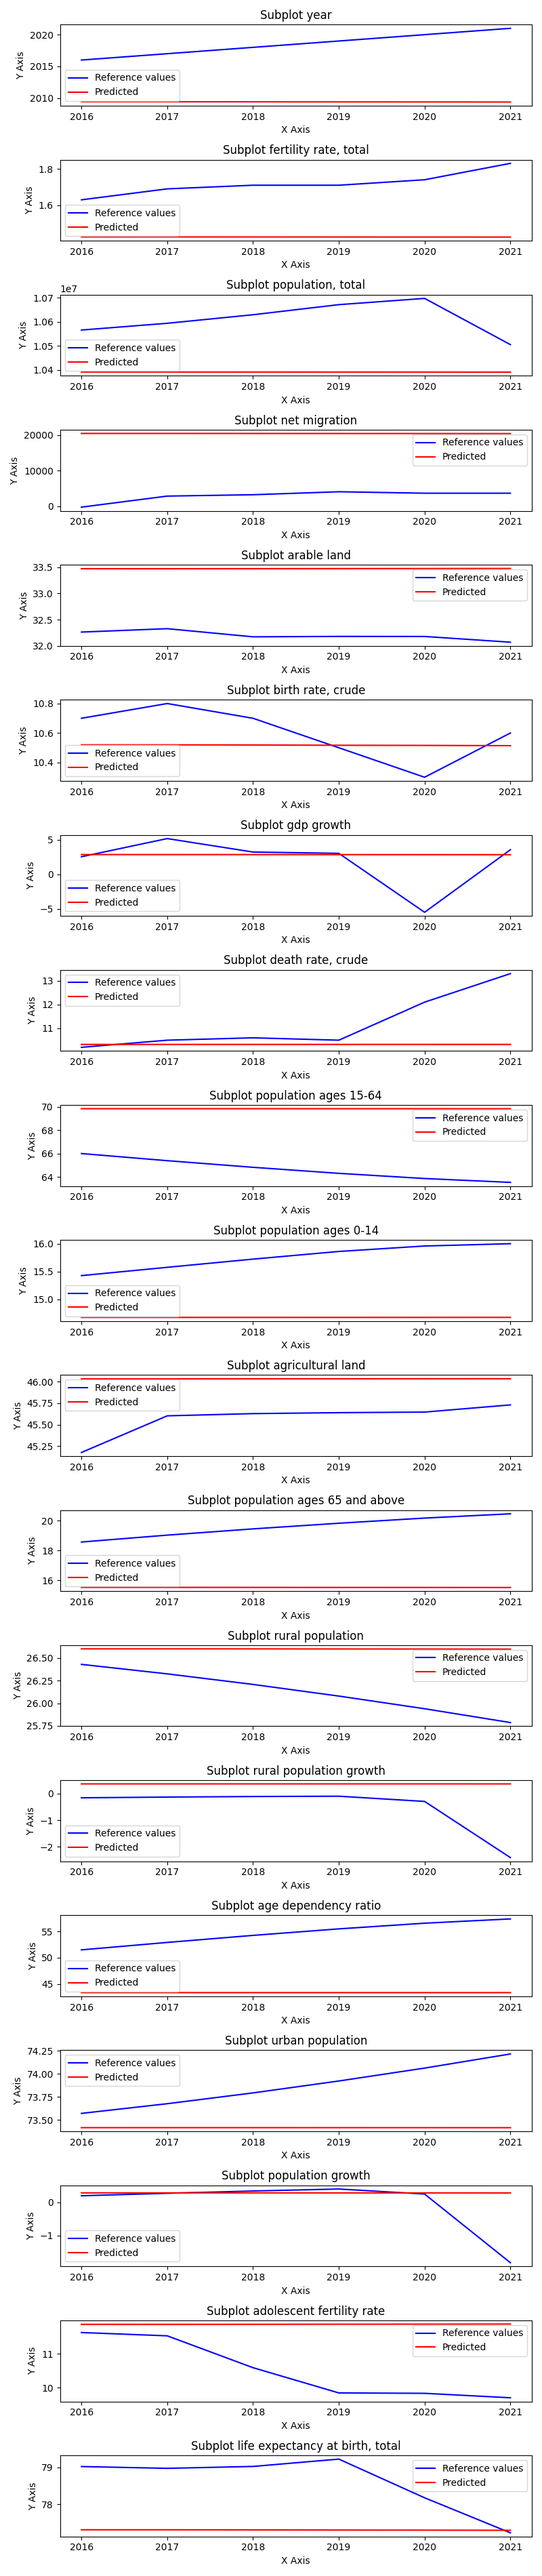
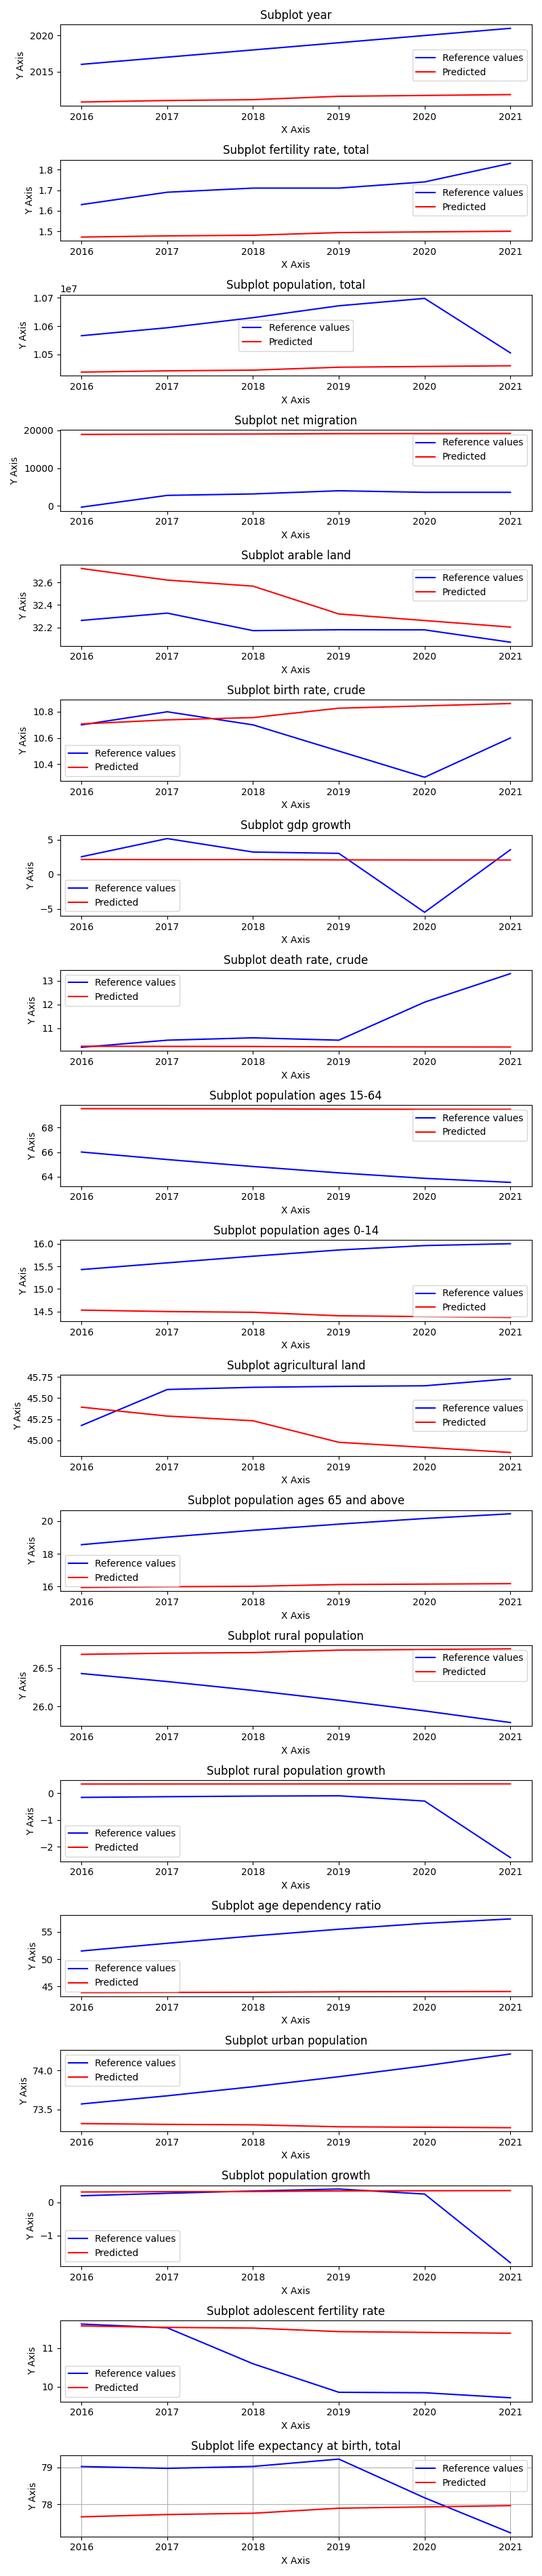
[WIP]: optimal parameters experiment

diff --git a/local_model_benchmark/model_experiments.py b/local_model_benchmark/model_experiments.py
@@ -5,7 +5,7 @@ import pprint
 import logging
 import torch
 from typing import List, Tuple, Union
-
+from abc import abstractmethod
 
 from config import setup_logging, Config
 from local_model_benchmark.utils import (
@@ -17,14 +17,81 @@ from sklearn.preprocessing import MinMaxScaler, StandardScaler, RobustScaler
 from statsmodels.tsa.arima.model import ARIMA
 
 # Custom imports
+from local_model_benchmark.utils import preprocess_single_state_data
+
 from src.preprocessors.state_preprocessing import StateDataLoader
 from src.preprocessors.multiple_states_preprocessing import StatesDataLoader
 from src.local_model.model import LSTMHyperparameters, LocalModel, EvaluateLSTM
 
+
 # TODO: define experiments
+class BaseExperiment:
+
+    @abstractmethod
+    def run(self, *args, **kwargs) -> None:
+        pass
+
+
+class OptimalParamsExperiment(BaseExperiment):
+
+    # Find optimal neuron number in layer number (hidden_size)
+    def find_optimal_hidden_size(self, possible_sizes: List[int]) -> int:
+        raise NotImplementedError()
+
+    # Find optimal sequence length
+    def find_optimal_sequence_len(self, range: range) -> int:
+        raise NotImplementedError()
+
+    # Find optimal learning rate
+    def find_optimal_learning_rate(self, base_learning_rate: float) -> float:
+        raise NotImplementedError()
+
+    # Find optimal number of layers
+    def find_optimal_number_of_layers(self, range: range) -> int:
+        raise NotImplementedError()
+
+    def run(self, state: str) -> None:
+        # Load data
+        STATE = state
+        state_loader = StateDataLoader(STATE)
+
+        state_df = state_loader.load_data()
+
+        # Get features
+        FEATURES = [col.lower() for col in state_df.columns]
+
+        BASE_HYPER_PARAMS = LSTMHyperparameters(
+            input_size=len(FEATURES),
+            hidden_size=128,
+            sequence_length=10,
+            learning_rate=0.0001,
+            epochs=10,
+            batch_size=1,
+            num_layers=3,
+        )
+
+        # Find optimal params
+        optim_hidden_size = self.find_optimal_hidden_size(
+            possible_sizes=[8, 16, 32, 64, 128, 256, 512]
+        )
+        optim_seq_len = self.find_optimal_sequence_len(range=range(15))
+        optim_learning_rate = self.find_optimal_learning_rate(
+            base_learning_rate=BASE_HYPER_PARAMS.learning_rate
+        )
+        optim_layer_num = self.find_optimal_number_of_layers(range=range(3, 7))
+
+        # Save the results
+
+        # Try to train model with optimal parameters
+
 
 # Model input based eperiments:
 # 1. Compare performance of LSTM networks with different neurons in layers, try to find optimal (optimization algorithm?)
+def find_optimal_params_experiment(state: str, split_size: float = 0.8) -> None:
+
+    pass
+
+
 # 2. Compare prediction using whole state data and the last few records of data
 # 3. Predict parameters for different years (e.g. to 2030, 2040, ... )
 # 4. Compare model with statistical methods (ARIMA, GM)

diff --git a/src/local_model/model.py b/src/local_model/model.py
@@ -105,10 +105,10 @@ class LocalModel(nn.Module):
         self.device = torch.device("cuda" if torch.cuda.is_available() else "cpu")
 
         # Feature Interaction Layer (Fully Connected Layer)
-        # self.feature_interaction = nn.Linear(
-        #     in_features=hyperparameters.input_size,  # Original feature count
-        #     out_features=hyperparameters.input_size,  # Mixing features
-        # )
+        self.feature_interaction = nn.Linear(
+            in_features=hyperparameters.input_size,  # Original feature count
+            out_features=hyperparameters.input_size,  # Mixing features
+        )
 
         # 3 layer model:
         self.lstm = nn.LSTM(
@@ -167,7 +167,7 @@ class LocalModel(nn.Module):
     ) -> torch.Tensor:
 
         # Apply feature interaction layer
-        # x = torch.relu(self.feature_interaction(x))  # Introduce feature interaction
+        x = torch.relu(self.feature_interaction(x))  # Introduce feature interaction
 
         # Get the size of the batch
         batch_size = x.size(0)

diff --git a/local_model_benchmark/data_experiments.py b/local_model_benchmark/data_experiments.py
@@ -53,12 +53,12 @@ def single_state_data_experiment(state: str, split_rate: float) -> None:
 
     single_state_params = LSTMHyperparameters(
         input_size=len(FEATURES),
-        hidden_size=32,
+        hidden_size=128,
         sequence_length=10,
-        learning_rate=0.001,
+        learning_rate=0.0001,
         epochs=10,
-        batch_size=1,  # Edit this for faster training
-        num_layers=4,
+        batch_size=1,
+        num_layers=3,
     )
     single_state_rnn = LocalModel(single_state_params)
 
